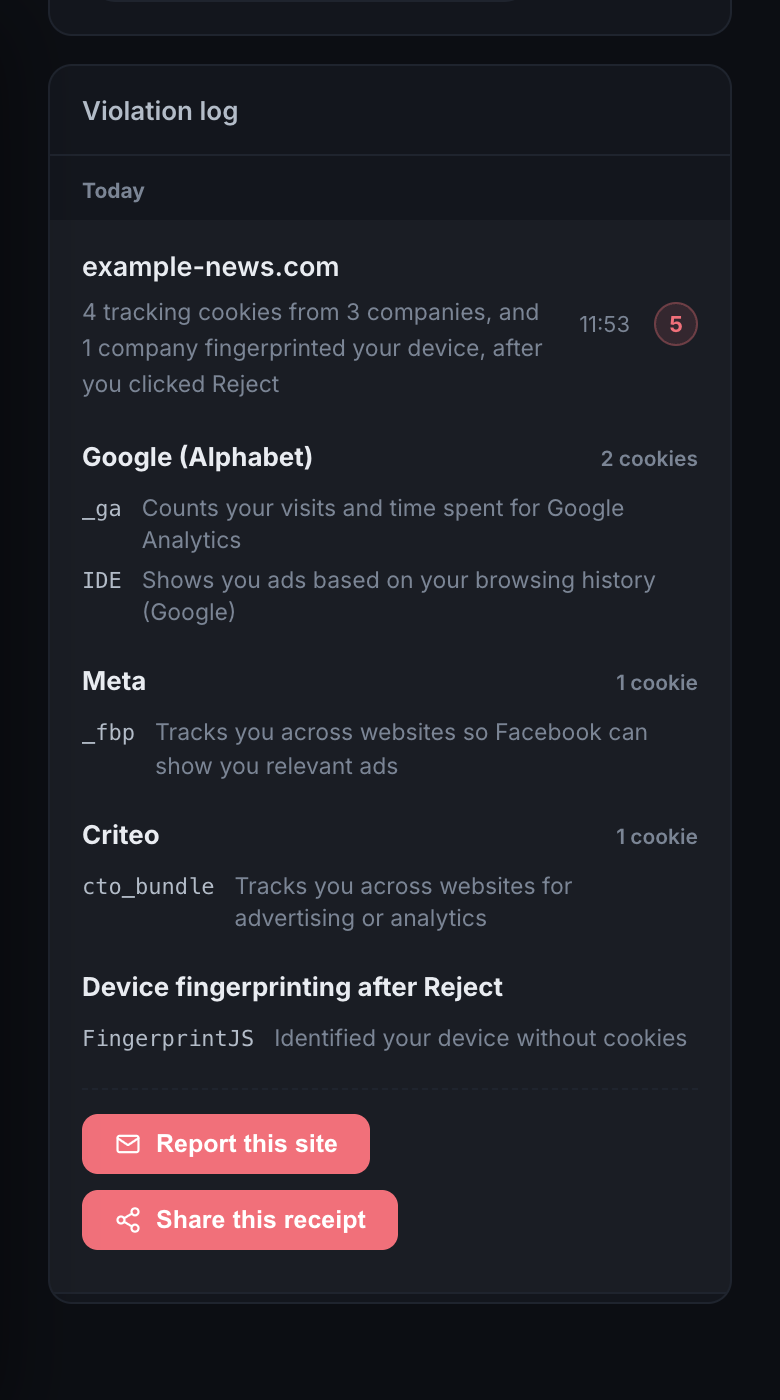
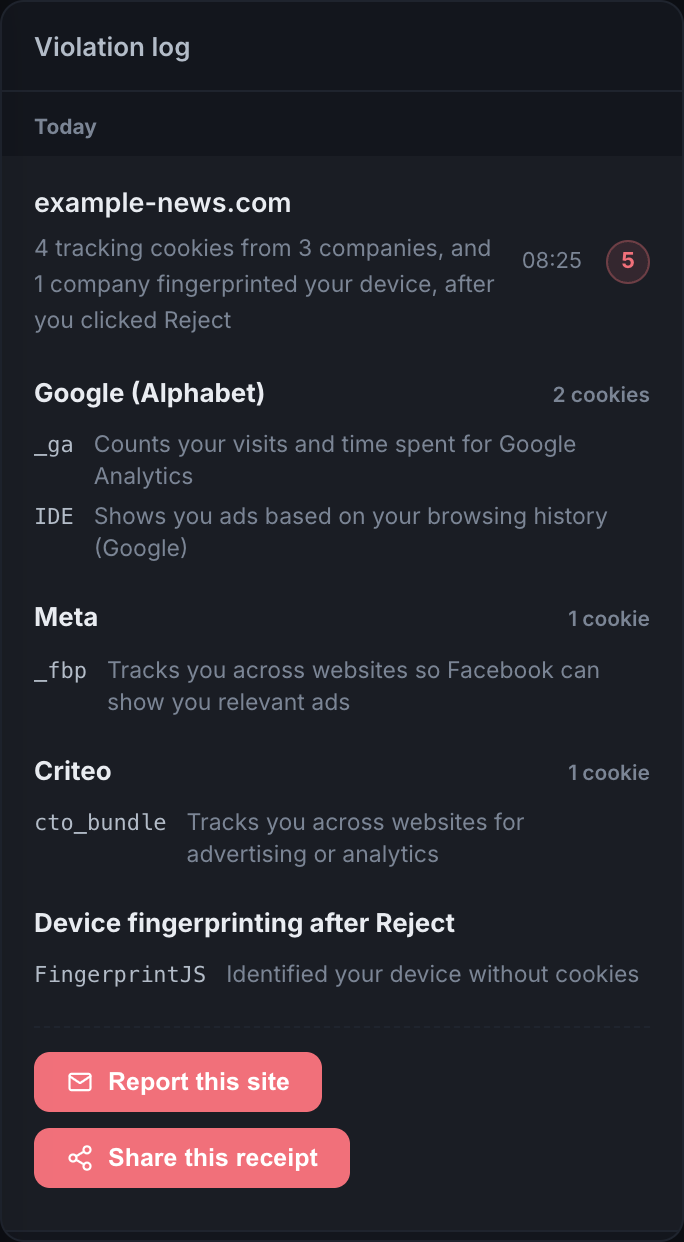
style: one spacing rhythm for the website on phones
Every section now follows the same steps: 56px around sections, 12px from
heading to text, 24 to 28px from text to its content, 16px between
paragraphs, 12px between cards and 20px inside them. Body text is tighter
(16px, 1.6 line height), long section headers align left, the hero note and
notes read as plain text instead of stacked boxes, and closing buttons fill
the width. On the features page each block reads heading, explanation, then
illustration, like the homepage. The phone screenshot of a caught violation
is cropped to just the card.

diff --git a/src/styles/global.css b/src/styles/global.css
@@ -1725,16 +1725,6 @@ h1, h2, h3, h4 {
 .mobile-only { display: none; }
 .is-mobile .mobile-only { display: block; }
 .is-mobile .desktop-only { display: none !important; }
-.mobile-install-note {
-  margin: 14px 0 0;
-  padding: 12px 14px;
-  border-radius: 12px;
-  background: var(--surface);
-  border: 1px solid var(--border);
-  font-size: 14px;
-  line-height: 1.5;
-  color: var(--text-soft);
-}
 .toast {
   position: fixed;
   left: 16px;
@@ -1750,40 +1740,68 @@ h1, h2, h3, h4 {
   box-shadow: 0 12px 30px rgba(15, 23, 42, 0.3);
 }
 
-/* ── Phone layout ── */
+
+
+/* ── Body copy used across sections ── */
+.lead { font-size: 17px; color: var(--text-soft); line-height: 1.7; margin: 0 0 var(--lead-gap, 20px); }
+
+/* ════ Phone spacing system ════
+ * One rhythm for every section on phones:
+ *   section padding 56px · title to text 12px · text to content 28px
+ *   between paragraphs 16px · between cards 12px · card padding 20px
+ */
 .feature-shot-wrap { display: block; }
 @media (max-width: 600px) {
-  .feature-shot-wrap .feature-shot { width: 100%; max-width: 360px; margin: 0 auto; }
-}
-@media (max-width: 480px) {
+  .container { padding: 0 20px; }
   .section { padding: 56px 0; }
-  .hero { padding: 28px 0 48px; }
-  .hero-inner { gap: 32px; }
-  .hero-sub { font-size: 17px; }
-  .section-title { font-size: clamp(26px, 7.4vw, 32px); }
 
-  /* Hero notes: tidy pills that wrap, instead of cramped columns */
-  .hero-note { flex-wrap: wrap; gap: 8px; }
-  .hero-note span { white-space: nowrap; padding: 6px 10px; border-radius: 999px; background: var(--surface); border: 1px solid var(--border); }
+  /* Headings and text */
+  .section-title { font-size: clamp(26px, 7.2vw, 32px); line-height: 1.15; margin-bottom: 12px; }
+  .section-sub { font-size: 16px; line-height: 1.6; }
+  .lead { font-size: 16px; line-height: 1.6; margin-bottom: 16px; }
+  .lead:last-of-type { margin-bottom: 24px; }
 
-  /* How it works: compact rows, number beside the text */
-  .step { display: grid; grid-template-columns: 36px 1fr; column-gap: 14px; padding: 18px; }
-  .step .step-num { grid-row: span 2; margin: 0; width: 36px; height: 36px; font-size: 14px; }
-  .step h3 { margin: 4px 0 4px; font-size: 17px; }
-  .step p { margin: 0; }
+  /* Long section headers read better left-aligned on a narrow screen */
+  .how-header, .guarantee-header { text-align: left; margin-bottom: 28px; }
+  .how-header .section-title, .how-header .section-sub,
+  .guarantee-header .section-title, .guarantee-header .section-sub { margin-left: 0 !important; margin-right: 0 !important; max-width: none; }
+
+  /* Hero */
+  .hero { padding: 24px 0 48px; }
+  .hero-inner { gap: 36px; }
+  .hero h1 { margin-bottom: 16px; }
+  .hero-sub { font-size: 17px; line-height: 1.55; margin-bottom: 24px; }
+  .hero-ctas { flex-direction: column; align-items: stretch; gap: 10px; margin-bottom: 12px; }
+  .hero-ctas .btn { width: 100%; justify-content: center; min-height: 52px; }
+  .mobile-install-note { margin: 0 0 14px; font-size: 14px; line-height: 1.5; color: var(--text-soft); }
+  .hero-note { flex-wrap: wrap; gap: 4px 14px; font-size: 13px; }
+  .hero-popup { width: 280px; }
+
+  /* The hero already shows the popup's company list */
+  .problem-visual { display: none; }
+
+  /* Cards: 12px apart, 20px inside, icon or number beside the text */
   .steps { gap: 12px; }
+  .step { display: grid; grid-template-columns: 36px 1fr; column-gap: 14px; padding: 20px; }
+  .step .step-num { grid-row: span 2; margin: 0; width: 36px; height: 36px; font-size: 14px; }
+  .step h3 { margin: 6px 0 4px; font-size: 17px; }
+  .step p { margin: 0; line-height: 1.55; }
+  .guarantee-pillars { grid-template-columns: 1fr; gap: 12px; }
+  .pillar { display: grid; grid-template-columns: 40px 1fr; column-gap: 14px; padding: 20px; }
+  .pillar .pillar-icon { grid-row: span 2; width: 40px; height: 40px; margin: 0; }
+  .pillar h3 { margin: 8px 0 4px; }
+  .pillar p { margin: 0; line-height: 1.55; }
 
-  /* Trust pillars: icon beside the title, less height */
-  .guarantee-pillars { gap: 12px; }
+  /* Lists and screenshots */
+  .check-list { margin-bottom: 24px !important; }
+  .check-list li + li { margin-top: 2px; }
+  .teaser-grid { gap: 32px; }
+  .feature-shot-wrap .feature-shot { max-width: 360px; margin: 0 auto; }
 
-  /* Buttons fill the width and are easy to tap */
-  .btn-lg { min-height: 52px; }
+  /* Buttons that end a section fill the width */
+  .problem-text > .btn, .teaser-grid .btn { width: 100%; justify-content: center; min-height: 48px; }
 }
 
 @media (max-width: 600px) {
-  /* The hero already shows the popup's company list; skip the illustrated copy on phones. */
-  .problem-visual { display: none; }
-  .pillar { display: grid; grid-template-columns: 40px 1fr; column-gap: 14px; padding: 18px; }
-  .pillar .pillar-icon { grid-row: span 2; width: 40px; height: 40px; margin: 0; }
-  .pillar h3, .pillar h4 { margin-top: 2px; }
+  .coming-card-v2 { padding: 20px; }
 }
